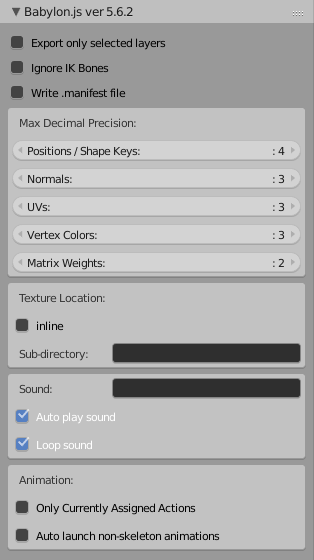
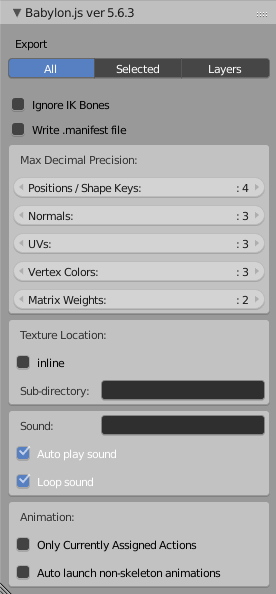
Blender exporter new version

Changed region(s): [[0.0, 0.0607, 0.9855, 1.0], [0.029, 0.0, 0.4928, 0.0304]]

diff --git a/content/resources/Exporter/Blender.md b/content/resources/Exporter/Blender.md
@@ -4,7 +4,7 @@ PG_TITLE: Blender
 ---
 # Blender to Babylon.js exporter
 
-The Blender export plugin can be found on [github repository](https://github.com/BabylonJS/Exporters/tree/master/Blender).
+The Blender export plugin can be found on [github repository](https://github.com/BabylonJS/Exporters/tree/master/Blender). We assume your using the last version.
 
 An extension named [Tower of Babel](http://github.com/BabylonJS/Extensions/tree/master/QueuedInterpolation/Blender) can also be used as exporter. It exports JavaScript modules with in-line geometry and simplifies the loading process. See its readme or that of the [QueuedInterpolation](https://github.com/BabylonJS/Extensions/tree/master/QueuedInterpolation) extension, which it is part of, to know more about its functionalities, and access its proper documentation.
 
@@ -32,11 +32,11 @@ This add-on use the standard Blender installation procedure:
 | Blender | [BJS equivalent](http://doc.babylonjs.com/classes/3.0/scene) |
 | --- | --- |
 | Scene</br>![scene](img/exporters/blender/scene/scene.png) | <ul><li>Camera: set scene activeCamera</li></ul> |
-| Exporter panel</br>![exporter-scene-options](img/exporters/blender/scene/exporter-scene-options.png) | <ul><li>`Export only selected layers`: objects in hidden scene layers will not be taken into account</br>![selected-layers](img/exporters/blender/scene/selected-layers.png)</li><li>`Max Decimal Precision`: how values are rounded during export</li></ul> |
+| Exporter panel</br>![exporter-scene-options](img/exporters/blender/scene/exporter-scene-options.png) | <ul><li>`Export`: <ul><li>`All`: all the file will be exported</li><li>`Selected`: only selection will be exported</li><li>`Layers`: hidden layers will not be exported</li></ul></li><li>`Max Decimal Precision`: how values are rounded during export</li></ul> |
 
 ---
 
-### World 
+### World
 
 ![Blender world properties panel](img/exporters/blender/world/world-properties-panel.png)
 
@@ -181,7 +181,7 @@ You will find an example on this [.zip archive](http://doc.babylonjs.com/example
 
 In `sources`, we have our master scene, with only static objects (on the layer 1), and just for us to see it, we have the logo linked on the layer 6. When exporting, take care to have only layer 1 active, as we have checked in the [scene panel](http://doc.babylonjs.com/resources/blender#scene) *Export only selected layers*.
 
-Once exported, you can see in `BJS/index.html` that we create our main scene using this `.babylon`: line 36 
+Once exported, you can see in `BJS/index.html` that we create our main scene using this `.babylon`: line 36
 
 ```html
 BABYLON.SceneLoader.Load("", "01.master-static-scene.babylon", engine, function (scene) {
@@ -259,17 +259,17 @@ Let's say you have exported your first scene. In this example we will use [blend
     <script type="text/javascript">
         var canvas = document.getElementById("canvas");
         var engine = new BABYLON.Engine(canvas, true);
-        
+
         // here the doc for Load function: http://doc.babylonjs.com/api/classes/babylon.sceneloader#load
         BABYLON.SceneLoader.Load("", "babylonJS_logo_v3.babylon", engine, function (scene) {
-		
+
             //as this .babylon example hasn't camera in it, we have to create one
             var camera = new BABYLON.ArcRotateCamera("Camera", 1, 1, 4, BABYLON.Vector3.Zero(), scene);
             camera.attachControl(canvas, false);
-			
+
 			scene.clearColor = new BABYLON.Color3(1, 1, 1);
 			scene.ambientColor = new BABYLON.Color3.White;
-			
+
             engine.runRenderLoop(function() {
                 scene.render();
             });
@@ -288,7 +288,7 @@ Let's say you have exported your first scene. In this example we will use [blend
 
 - double-click on the *index.html* file... profit!
   - some browsers may not want loading the scene, for some security issues (e.g.: Chrome). In this case, you have to open the html file through a webserver (local or not), or try into another browser (e.g.: Firefox, Edge).
-  
+
 ![blender babylon scene loaded in BJS](img/exporters/blender/babylon/babylon-loaded.png)
 
 #### Animated object
